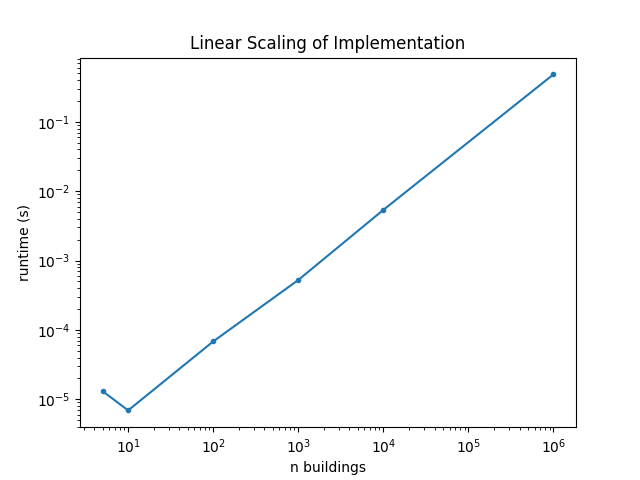
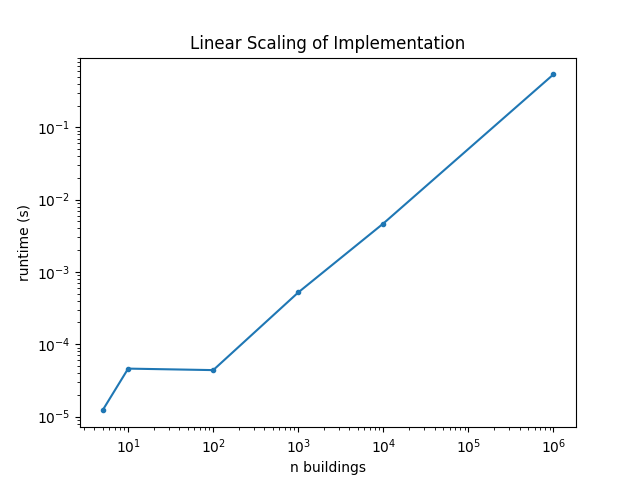
chore: reformat printouts

diff --git a/takehome/benchmark.py b/takehome/benchmark.py
@@ -1,6 +1,6 @@
 import time
 
-from exercise1_losses_calculator import calculate_projected_losses
+from exercise1and2_losses_calculator import calculate_projected_losses
 from generate_data import generate_dataset
 from matplotlib import pyplot as plt
 
@@ -22,14 +22,13 @@ def benchmark_losses(n: int) -> float:
     start_time = time.time()
     losses = calculate_projected_losses(data, years=1, method="complex")
     total_time = time.time() - start_time
-    print(
-        f"Computed losses for {n} buildings in {total_time}s, rate of {total_time/n} s/building"
-    )
+    print(f"{n}\t|{total_time}")
     return total_time
 
 
 def main():
     losses_time = []
+    print("n\t|time(s)\n---\t|---")
     for n in benchmark_ns:
         losses_time.append(benchmark_losses(n))
 

diff --git a/takehome/exercise3.md b/takehome/exercise3.md
@@ -1,1 +1,22 @@
 # Exercise 3
+
+## Scalability Analysis
+The algorithm as implemented in `exercise1and2_losses_calculator.py` under `potential_financial_losses_estimate` experiences linear scaling, as demonstrated in ![image of scaling](takehome/benchmark.png) and through experimentation.
+
+For a set of runs of varying size (n), we experience the following runtimes: 
+n       |time(s)
+---     |---
+5       |1.2159347534179688e-05
+10      |4.601478576660156e-05
+100     |4.38690185546875e-05
+1000    |0.0005209445953369141
+10000   |0.00467681884765625
+1000000 |0.53981614112854
+
+The program is also linear in memory usage.
+
+## Optimization Strategies
+
+## Resource Management
+
+## Example Code
